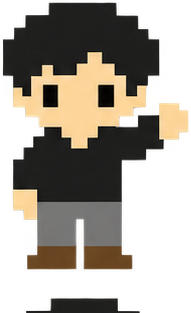
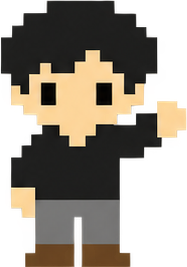
Village round 73: Sylvia's hair flower + full wardrobe with walk cycles
- Re-cut Sylvia & Harry's whole core vocabulary (idle / walk×4 / wave×4 /
  smile) from the current *-core-animations-alpha.png. The old crops had
  a washed-out pale bloom that read as nothing at scene scale; this sheet
  has a vivid coral flower on Sylvia's hair in every pose.
- Wardrobe re-cut from character/wardrobe/wardrobe-*-walk-couple-alpha:
  each outfit now carries its own 4-frame side-walk (VILLAGER_OUTFIT_WALK)
  and its own couple pose (COUPLE_OUTFIT_POSE), so a figure crossing the
  village in the rain actually walks with an umbrella and the couple do
  the umbrella / hot-mug beat when they meet.
- New outfits cropped + wired: party, business, tennis, travel, artsy
  (+ props: puddle, snowball, folded-blanket, couple-*). Gathering →
  party outfit; ?outfit= URL param previews the rest before they get
  real triggers.
- Updated SleepwearFigure aspects to the re-cut pyjama crops.

diff --git a/components/village/scene/shapes.tsx b/components/village/scene/shapes.tsx
@@ -619,9 +619,15 @@ export function MemoryMarker({ x, y, label, count, onClick }: {
 // from sylvia-core-animations-alpha.png / harry-core-animations-alpha.png
 // in one pass, so proportions and anchor match across every pose and the
 // walk is a real 4-frame cycle again (round 55 had trimmed it to 2).
+// Re-cut round 73 (2026-08-29, "sylvia's character flower on her hair") from
+// the current sylvia/harry-core-animations-alpha.png — the older crops had
+// picked up a washed-out pale bloom that read as nothing at scene scale;
+// this sheet's flower is a vivid coral on every pose. Whole vocabulary
+// (idle / walk×4 / wave×4 / smile) re-cut in one pass so proportions and
+// bottom-centre anchor match across every frame.
 const VILLAGER_SPRITE: Record<string, { src: string; w: number; h: number }> = {
-  Sylvia: { src: '/village-assets/sylvia-idle.png', w: 150, h: 293 },
-  Harry: { src: '/village-assets/harry-idle.png', w: 162, h: 271 },
+  Sylvia: { src: '/village-assets/sylvia-idle.png', w: 146, h: 288 },
+  Harry: { src: '/village-assets/harry-idle.png', w: 158, h: 266 },
 }
 
 // Auto wardrobe (round 71, "make wardrobe change — auto is dependent on
@@ -632,17 +638,58 @@ const VILLAGER_SPRITE: Record<string, { src: string; w: number; h: number }> = {
 // character/wardrobe/sylvia-harry-multi-outfit-library-alpha.png. Walk and
 // wave frames stay in the default outfit — they're on their own sheets and
 // only show for a beat while moving.
-export type Outfit = 'default' | 'winter' | 'rain' | 'cozy'
+// Re-cut round 73 (2026-08-29) from character/wardrobe/wardrobe-*-walk-
+// couple-alpha.png — each of those sheets carries a whole matched set
+// (standing + a real 4-frame side-walk + a couple pose), so the wardrobe
+// now changes the WALK too, not just the standing idle (VILLAGER_OUTFIT_
+// WALK below). `party` / `tennis` / `travel` / `artsy` are cropped and
+// wired but have no auto-trigger yet — they're one line in VillageScene's
+// `outfit` selector away from an event hook. cozy stays on its older crop.
+export type Outfit = 'default' | 'winter' | 'rain' | 'cozy' | 'party' | 'business' | 'tennis' | 'travel' | 'artsy'
 const VILLAGER_OUTFIT: Record<string, Partial<Record<Outfit, { src: string; w: number; h: number }>>> = {
   Sylvia: {
-    winter: { src: '/village-assets/sylvia-winter.png', w: 168, h: 382 },
-    rain: { src: '/village-assets/sylvia-rain.png', w: 207, h: 333 },
+    winter: { src: '/village-assets/sylvia-winter.png', w: 146, h: 268 },
+    rain: { src: '/village-assets/sylvia-rain.png', w: 212, h: 339 },
     cozy: { src: '/village-assets/sylvia-cozy.png', w: 154, h: 357 },
+    party: { src: '/village-assets/sylvia-party.png', w: 156, h: 249 },
+    business: { src: '/village-assets/sylvia-business.png', w: 133, h: 253 },
+    tennis: { src: '/village-assets/sylvia-tennis.png', w: 169, h: 276 },
+    travel: { src: '/village-assets/sylvia-travel.png', w: 172, h: 276 },
+    artsy: { src: '/village-assets/sylvia-artsy.png', w: 138, h: 271 },
   },
   Harry: {
-    winter: { src: '/village-assets/harry-winter.png', w: 172, h: 385 },
-    rain: { src: '/village-assets/harry-rain.png', w: 203, h: 334 },
+    winter: { src: '/village-assets/harry-winter.png', w: 153, h: 246 },
+    rain: { src: '/village-assets/harry-rain.png', w: 231, h: 341 },
     cozy: { src: '/village-assets/harry-cozy.png', w: 157, h: 342 },
+    party: { src: '/village-assets/harry-party.png', w: 158, h: 233 },
+    business: { src: '/village-assets/harry-business.png', w: 153, h: 231 },
+    tennis: { src: '/village-assets/harry-tennis.png', w: 203, h: 273 },
+    travel: { src: '/village-assets/harry-travel.png', w: 128, h: 266 },
+    artsy: { src: '/village-assets/harry-artsy.png', w: 130, h: 280 },
+  },
+}
+// The matching 4-frame side-walk for each outfit, so a figure crossing the
+// village in the rain actually walks with an umbrella (round 73).
+const outfitWalk = (who: string, k: Exclude<Outfit, 'default' | 'cozy'>, aspects: number[]) =>
+  aspects.map((aspect, i) => ({ src: `/village-assets/${who.toLowerCase()}-${k}-walk-${i + 1}.png`, aspect }))
+const VILLAGER_OUTFIT_WALK: Record<string, Partial<Record<Outfit, { src: string; aspect: number }[]>>> = {
+  Sylvia: {
+    winter: outfitWalk('Sylvia', 'winter', [151 / 256, 149 / 257, 145 / 255, 146 / 255]),
+    rain: outfitWalk('Sylvia', 'rain', [227 / 318, 218 / 316, 230 / 317, 238 / 320]),
+    party: outfitWalk('Sylvia', 'party', [127 / 249, 125 / 249, 120 / 249, 127 / 251]),
+    business: outfitWalk('Sylvia', 'business', [124 / 250, 129 / 253, 121 / 253, 128 / 239]),
+    tennis: outfitWalk('Sylvia', 'tennis', [198 / 293, 189 / 291, 186 / 291, 179 / 291]),
+    travel: outfitWalk('Sylvia', 'travel', [172 / 276, 167 / 271, 170 / 273, 169 / 271]),
+    artsy: outfitWalk('Sylvia', 'artsy', [138 / 271, 166 / 269, 161 / 271, 160 / 271]),
+  },
+  Harry: {
+    winter: outfitWalk('Harry', 'winter', [117 / 203, 121 / 204, 122 / 204, 120 / 205]),
+    rain: outfitWalk('Harry', 'rain', [220 / 308, 228 / 309, 231 / 309, 226 / 304]),
+    party: outfitWalk('Harry', 'party', [121 / 231, 121 / 230, 122 / 230, 123 / 230]),
+    business: outfitWalk('Harry', 'business', [122 / 227, 134 / 227, 126 / 227, 124 / 229]),
+    tennis: outfitWalk('Harry', 'tennis', [191 / 275, 183 / 274, 181 / 274, 178 / 274]),
+    travel: outfitWalk('Harry', 'travel', [128 / 266, 135 / 271, 138 / 270, 135 / 270]),
+    artsy: outfitWalk('Harry', 'artsy', [130 / 280, 133 / 286, 142 / 286, 134 / 286]),
   },
 }
 const VILLAGER_SMILE: Record<string, string> = {
@@ -689,28 +736,28 @@ const VILLAGER_SMILE: Record<string, string> = {
 // two walk poses are near-frontal, which broke the "facing the way they
 // walk" read; a clean 2-frame contact/contact cycle sells the direction.
 const SYLVIA_WALK_FRAMES = [
-  { src: '/village-assets/sylvia-walk-1.png', aspect: 144 / 293 },
-  { src: '/village-assets/sylvia-walk-2.png', aspect: 141 / 290 },
-  { src: '/village-assets/sylvia-walk-3.png', aspect: 142 / 291 },
-  { src: '/village-assets/sylvia-walk-4.png', aspect: 142 / 290 },
+  { src: '/village-assets/sylvia-walk-1.png', aspect: 140 / 288 },
+  { src: '/village-assets/sylvia-walk-2.png', aspect: 137 / 286 },
+  { src: '/village-assets/sylvia-walk-3.png', aspect: 138 / 287 },
+  { src: '/village-assets/sylvia-walk-4.png', aspect: 138 / 286 },
 ]
 const SYLVIA_WAVE_FRAMES = [
-  { src: '/village-assets/sylvia-wave-1.png', aspect: 150 / 313 },
-  { src: '/village-assets/sylvia-wave-2.png', aspect: 168 / 313 },
-  { src: '/village-assets/sylvia-wave-3.png', aspect: 186 / 311 },
-  { src: '/village-assets/sylvia-wave-4.png', aspect: 150 / 288 },
+  { src: '/village-assets/sylvia-wave-1.png', aspect: 146 / 290 },
+  { src: '/village-assets/sylvia-wave-2.png', aspect: 164 / 290 },
+  { src: '/village-assets/sylvia-wave-3.png', aspect: 168 / 289 },
+  { src: '/village-assets/sylvia-wave-4.png', aspect: 146 / 283 },
 ]
 const HARRY_WALK_FRAMES = [
-  { src: '/village-assets/harry-walk-1.png', aspect: 154 / 269 },
-  { src: '/village-assets/harry-walk-2.png', aspect: 151 / 271 },
-  { src: '/village-assets/harry-walk-3.png', aspect: 152 / 268 },
-  { src: '/village-assets/harry-walk-4.png', aspect: 153 / 269 },
+  { src: '/village-assets/harry-walk-1.png', aspect: 150 / 265 },
+  { src: '/village-assets/harry-walk-2.png', aspect: 147 / 267 },
+  { src: '/village-assets/harry-walk-3.png', aspect: 148 / 263 },
+  { src: '/village-assets/harry-walk-4.png', aspect: 149 / 264 },
 ]
 const HARRY_WAVE_FRAMES = [
-  { src: '/village-assets/harry-wave-1.png', aspect: 162 / 313 },
-  { src: '/village-assets/harry-wave-2.png', aspect: 182 / 317 },
-  { src: '/village-assets/harry-wave-3.png', aspect: 191 / 313 },
-  { src: '/village-assets/harry-wave-4.png', aspect: 162 / 312 },
+  { src: '/village-assets/harry-wave-1.png', aspect: 158 / 267 },
+  { src: '/village-assets/harry-wave-2.png', aspect: 176 / 273 },
+  { src: '/village-assets/harry-wave-3.png', aspect: 187 / 267 },
+  { src: '/village-assets/harry-wave-4.png', aspect: 158 / 266 },
 ]
 const VILLAGER_WALK: Record<string, { src: string; aspect: number }[]> = { Sylvia: SYLVIA_WALK_FRAMES, Harry: HARRY_WALK_FRAMES }
 const VILLAGER_WAVE: Record<string, { src: string; aspect: number }[]> = { Sylvia: SYLVIA_WAVE_FRAMES, Harry: HARRY_WAVE_FRAMES }
@@ -755,9 +802,21 @@ export const COUPLE_PICNIC_FRAME = 8
 // stretch per lap, so VillageScene now holds a `poseIndex` it bumps each
 // meeting and this just draws that frame. A different interaction every
 // time they come together, and nothing animating while they're apart.
-export function CoupleInteraction({ x, y, poseIndex = 0 }: { x: number; y: number; poseIndex?: number }) {
+// One combined-pose crop per outfit (round 73) — when the couple meet in
+// the rain or the snow they do the outfit's own together-beat (sharing an
+// umbrella, warming their hands on mugs) instead of a default one.
+const COUPLE_OUTFIT_POSE: Partial<Record<Outfit, { src: string; aspect: number }>> = {
+  rain: { src: '/village-assets/couple-rain.png', aspect: 275 / 350 },
+  winter: { src: '/village-assets/couple-winter.png', aspect: 294 / 353 },
+  tennis: { src: '/village-assets/couple-tennis.png', aspect: 247 / 266 },
+  travel: { src: '/village-assets/couple-travel.png', aspect: 333 / 333 },
+  artsy: { src: '/village-assets/couple-artsy.png', aspect: 299 / 300 },
+}
+
+export function CoupleInteraction({ x, y, poseIndex = 0, outfit = 'default' }: { x: number; y: number; poseIndex?: number; outfit?: Outfit }) {
   const n = COUPLE_INTERACT_FRAMES.length
-  const f = COUPLE_INTERACT_FRAMES[((poseIndex % n) + n) % n]
+  const outfitPose = outfit !== 'default' ? COUPLE_OUTFIT_POSE[outfit] : undefined
+  const f = outfitPose ?? COUPLE_INTERACT_FRAMES[((poseIndex % n) + n) % n]
   const h = 34
   const w = h * f.aspect
   return (
@@ -813,6 +872,7 @@ export function VillagerShape({ x, y, name, scale = 1, onClick, wander = true, p
   // The idle pose can carry a seasonal/weather outfit; everything else
   // stays in the default kit.
   const outfitSprite = outfit !== 'default' ? VILLAGER_OUTFIT[name]?.[outfit] : undefined
+  const outfitWalkFrames = outfit !== 'default' ? VILLAGER_OUTFIT_WALK[name]?.[outfit] : undefined
   const idleSprite = outfitSprite ?? sprite
   const iw = h * (idleSprite.w / idleSprite.h)
   return (
@@ -842,7 +902,7 @@ export function VillagerShape({ x, y, name, scale = 1, onClick, wander = true, p
             )}
           </g>
         )}
-        {showWalk && <SpriteCycle frames={VILLAGER_WALK[name]} x={0} y={0} height={h} periodSec={1} />}
+        {showWalk && <SpriteCycle frames={outfitWalkFrames ?? VILLAGER_WALK[name]} x={0} y={0} height={h} periodSec={1} />}
         {showWave && <SpriteCycle frames={VILLAGER_WAVE[name]} x={0} y={0} height={h} periodSec={isSylvia ? 2.1 : 1.9} />}
       </g>
     </g>

diff --git a/components/village/scene/VillageScene.tsx b/components/village/scene/VillageScene.tsx
@@ -686,6 +686,18 @@ export default function VillageScene({
   }, [])
   if (vtodOverride) v = { ...v, timeOfDay: vtodOverride }
 
+  // Same idea for the wardrobe (round 73) — `?outfit=party|tennis|travel|
+  // artsy|business|winter|rain|cozy` so the new sets can be previewed
+  // before they each get a real trigger. Dev-only URL param, no stored state.
+  const [outfitOverrideState, setOutfitOverrideState] = useState<Outfit | null>(null)
+  useEffect(() => {
+    try {
+      const p = new URLSearchParams(window.location.search).get('outfit')
+      const ok: Outfit[] = ['default', 'winter', 'rain', 'cozy', 'party', 'business', 'tennis', 'travel', 'artsy']
+      if (p && (ok as string[]).includes(p)) setOutfitOverrideState(p as Outfit)
+    } catch { /* ignore */ }
+  }, [])
+
   // Dusk/night — windows glow, otherwise they're just glass (2026-08-24).
   const dark = v.timeOfDay === 'dusk' || v.timeOfDay === 'night'
   // Guest Mode warms the village up whatever the hour: lanterns and window
@@ -716,13 +728,20 @@ export default function VillageScene({
   // no bench/sleepwear swap (2026-08-29). `settled` is the real "let the
   // scene go quiet" gate everywhere the cast renders.
   const settled = quiet && !gathering
-  // Auto wardrobe (round 71) — rain coat when it's actually raining, a
-  // winter coat + knit hat when it's cold, a cosy sweater in autumn.
+  // Auto wardrobe (round 71; round 73 adds the gathering + ?outfit= hooks)
+  // — dressed up for a gathering, a rain coat when it's actually raining, a
+  // winter coat + knit hat when it's cold, a cosy sweater in autumn. Each
+  // outfit now carries its own walk cycle and couple pose (see
+  // VILLAGER_OUTFIT_WALK / COUPLE_OUTFIT_POSE in shapes.tsx). `?outfit=` is
+  // a dev override for the preview so party/tennis/travel/artsy/business
+  // can be seen before they get their own real triggers.
   const outfit: Outfit =
-    weather?.condition === 'rain' || weather?.condition === 'storm' ? 'rain'
-    : v.season === 'winter' ? 'winter'
-    : v.season === 'autumn' ? 'cozy'
-    : 'default'
+    outfitOverrideState ?? (
+      gathering ? 'party'
+      : weather?.condition === 'rain' || weather?.condition === 'storm' ? 'rain'
+      : v.season === 'winter' ? 'winter'
+      : v.season === 'autumn' ? 'cozy'
+      : 'default')
   // Full night (not just dusk) — the couple change into sleepwear near Home
   // and Somi curls up asleep (round 51, 2026-08-28, "all of these new
   // animations elements"): the real bedtime art behind round 48's evening
@@ -2280,7 +2299,7 @@ export default function VillageScene({
       <g>
         {!arranging && !settled && (
           <g style={{ visibility: coupleTogether ? undefined : 'hidden' }}>
-            <CoupleInteraction x={life.interactAt.x} y={life.interactAt.y} poseIndex={interactPose} />
+            <CoupleInteraction x={life.interactAt.x} y={life.interactAt.y} poseIndex={interactPose} outfit={outfit} />
           </g>
         )}
         <g style={{ visibility: coupleTogether ? 'hidden' : undefined }}>
@@ -2318,8 +2337,8 @@ export default function VillageScene({
         const sp = decorPos('sylvia'), hp = decorPos('harry')
         if (night) return (
           <>
-            <SleepwearFigure src="/village-assets/sylvia-pajama.png" aspect={247 / 509} x={sp.x} y={sp.y} />
-            <SleepwearFigure src="/village-assets/harry-pajama.png" aspect={242 / 529} x={hp.x} y={hp.y} />
+            <SleepwearFigure src="/village-assets/sylvia-pajama.png" aspect={144 / 289} x={sp.x} y={sp.y} />
+            <SleepwearFigure src="/village-assets/harry-pajama.png" aspect={149 / 281} x={hp.x} y={hp.y} />
           </>
         )
         const midX = (sp.x + hp.x) / 2, midY = (sp.y + hp.y) / 2
